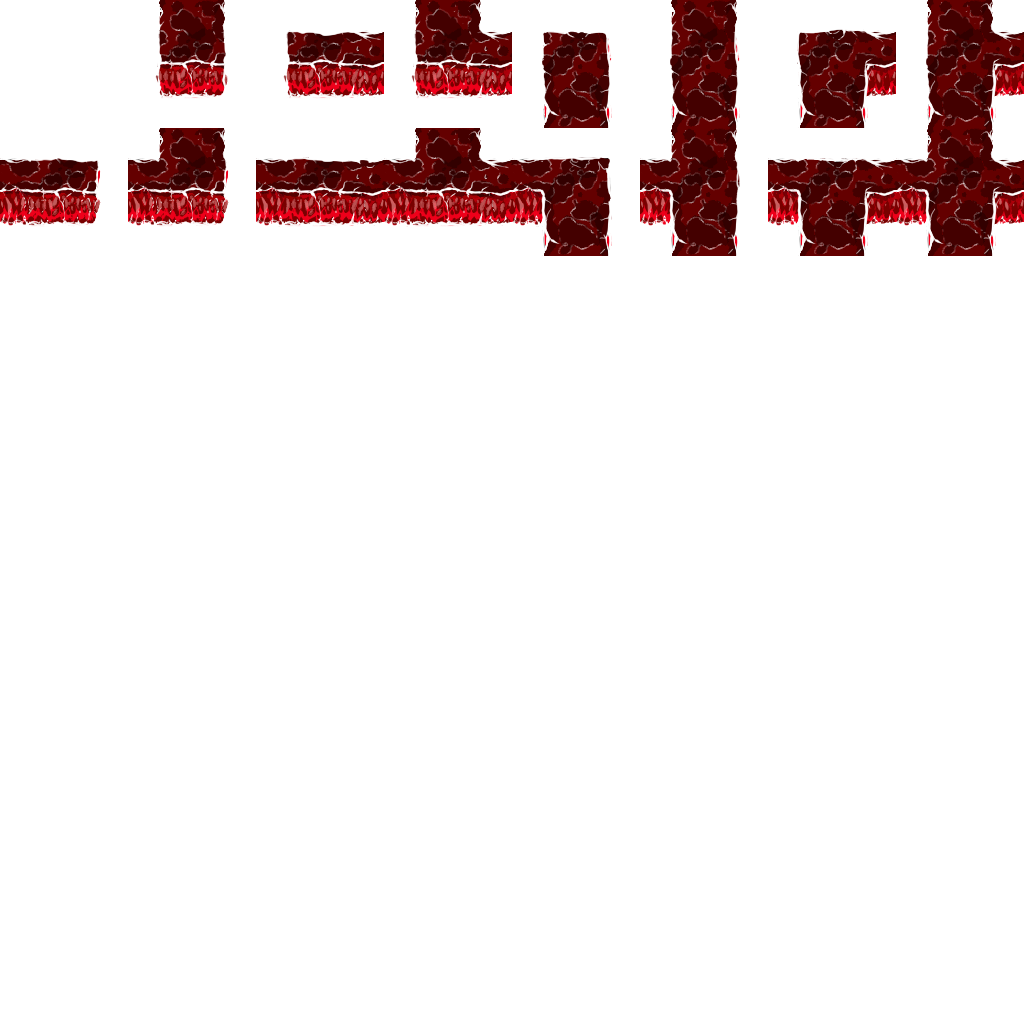
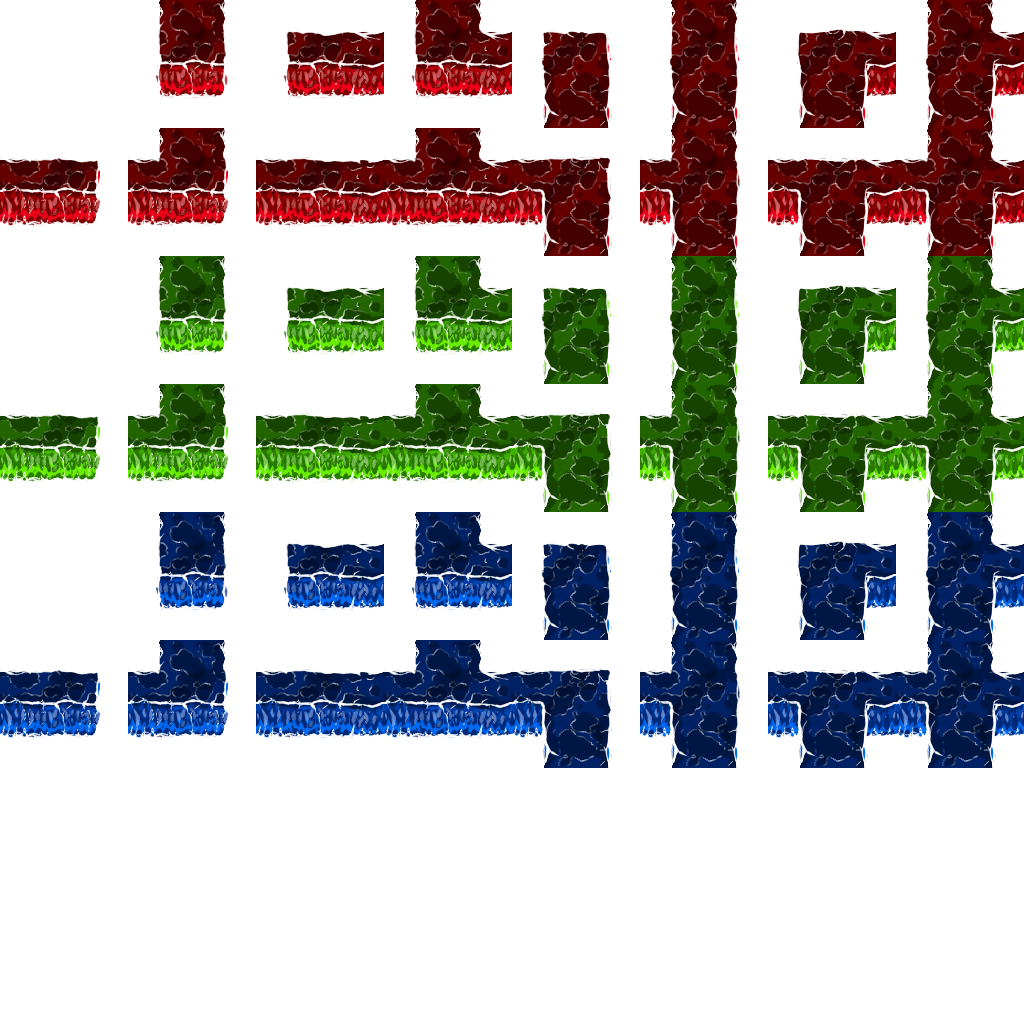
update walls tileset

diff --git a/data/map/walls.tsx b/data/map/walls.tsx
@@ -3,7 +3,7 @@
  <image source="walls.png" width="1024" height="1024"/>
  <wangsets>
   <wangset name="Red walls" type="edge" tile="-1">
-   <wangcolor name="" color="#ff0000" tile="-1" probability="1"/>
+   <wangcolor name="Red walls" color="#ff0000" tile="-1" probability="1"/>
    <wangtile tileid="1" wangid="1,0,0,0,0,0,0,0"/>
    <wangtile tileid="2" wangid="0,0,1,0,0,0,0,0"/>
    <wangtile tileid="3" wangid="1,0,1,0,0,0,0,0"/>
@@ -19,6 +19,38 @@
    <wangtile tileid="13" wangid="1,0,0,0,1,0,1,0"/>
    <wangtile tileid="14" wangid="0,0,1,0,1,0,1,0"/>
    <wangtile tileid="15" wangid="1,0,1,0,1,0,1,0"/>
+  </wangset>
+  <wangset name="Green walls" type="edge" tile="-1">
+   <wangcolor name="Green walls" color="#00ff00" tile="-1" probability="1"/>
+   <wangtile tileid="17" wangid="1,0,0,0,0,0,0,0"/>
+   <wangtile tileid="18" wangid="0,0,1,0,0,0,0,0"/>
+   <wangtile tileid="19" wangid="1,0,1,0,0,0,0,0"/>
+   <wangtile tileid="20" wangid="0,0,0,0,1,0,0,0"/>
+   <wangtile tileid="21" wangid="1,0,0,0,1,0,0,0"/>
+   <wangtile tileid="22" wangid="0,0,1,0,1,0,0,0"/>
+   <wangtile tileid="24" wangid="0,0,0,0,0,0,1,0"/>
+   <wangtile tileid="25" wangid="1,0,0,0,0,0,1,0"/>
+   <wangtile tileid="26" wangid="0,0,1,0,0,0,1,0"/>
+   <wangtile tileid="27" wangid="1,0,1,0,0,0,1,0"/>
+   <wangtile tileid="28" wangid="0,0,0,0,1,0,1,0"/>
+   <wangtile tileid="29" wangid="1,0,0,0,1,0,1,0"/>
+   <wangtile tileid="30" wangid="0,0,1,0,1,0,1,0"/>
+  </wangset>
+  <wangset name="Blue walls" type="edge" tile="-1">
+   <wangcolor name="Blue walls" color="#0000ff" tile="-1" probability="1"/>
+   <wangtile tileid="33" wangid="1,0,0,0,0,0,0,0"/>
+   <wangtile tileid="34" wangid="0,0,1,0,0,0,0,0"/>
+   <wangtile tileid="35" wangid="1,0,1,0,0,0,0,0"/>
+   <wangtile tileid="36" wangid="0,0,0,0,1,0,0,0"/>
+   <wangtile tileid="37" wangid="1,0,0,0,1,0,0,0"/>
+   <wangtile tileid="38" wangid="0,0,1,0,1,0,0,0"/>
+   <wangtile tileid="40" wangid="0,0,0,0,0,0,1,0"/>
+   <wangtile tileid="41" wangid="1,0,0,0,0,0,1,0"/>
+   <wangtile tileid="42" wangid="0,0,1,0,0,0,1,0"/>
+   <wangtile tileid="43" wangid="1,0,1,0,0,0,1,0"/>
+   <wangtile tileid="44" wangid="0,0,0,0,1,0,1,0"/>
+   <wangtile tileid="45" wangid="1,0,0,0,1,0,1,0"/>
+   <wangtile tileid="46" wangid="0,0,1,0,1,0,1,0"/>
   </wangset>
  </wangsets>
 </tileset>
